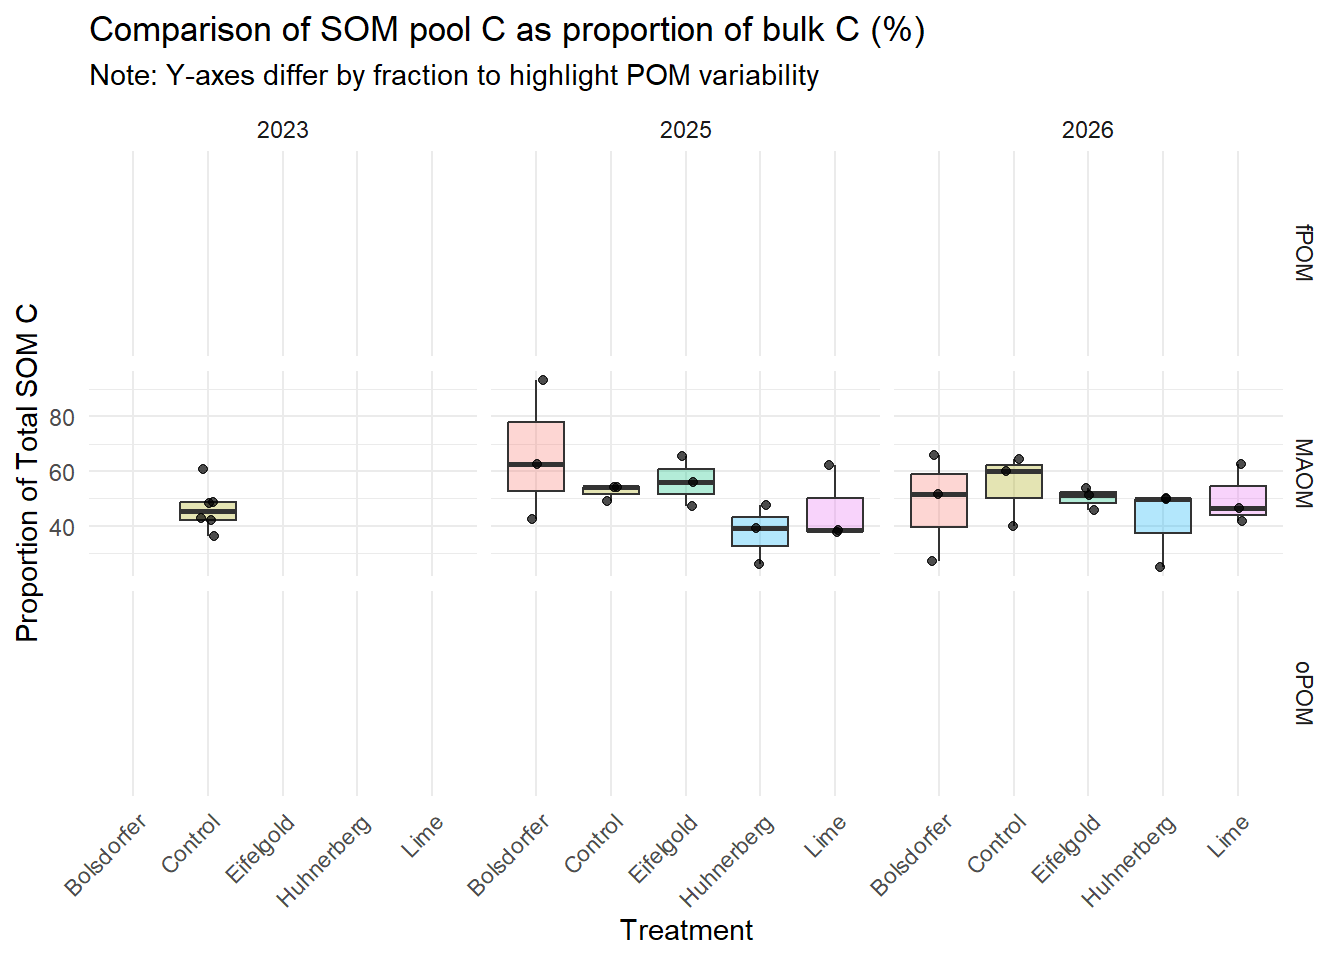
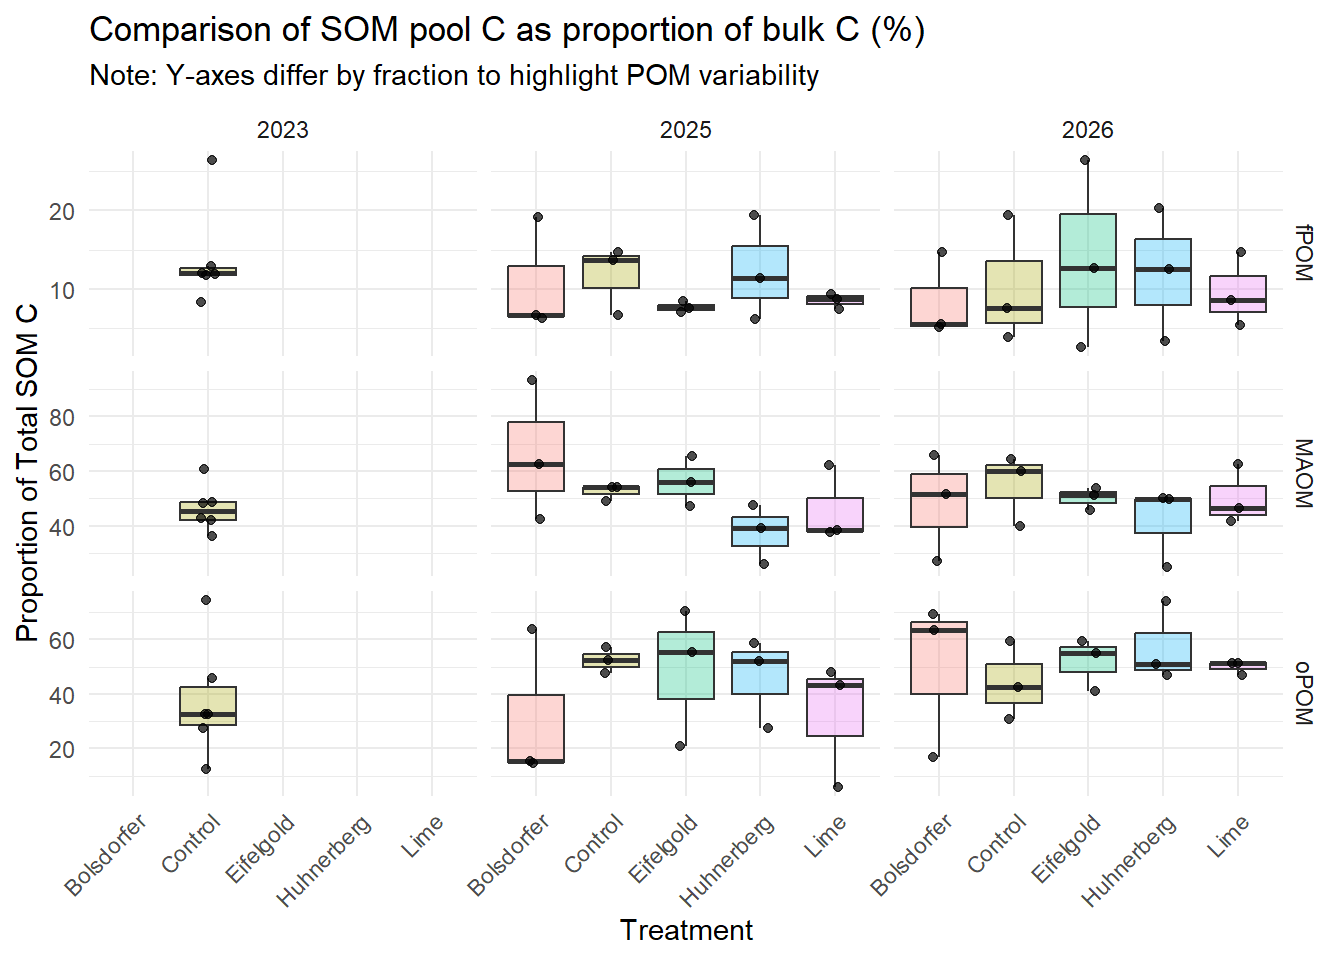
updated density fractionation initial results with CN of oPOM and fPOM in qmd

diff --git a/docs/density_fractionation_initial_results_files/libs/quarto-html/quarto-syntax-highlighting-15634bcf2e68342d4ad2dfa704d543f6.css b/docs/density_fractionation_initial_results_files/libs/quarto-html/quarto-syntax-highlighting-15634bcf2e68342d4ad2dfa704d543f6.css
@@ -1,0 +1,236 @@
+/* quarto syntax highlight colors */
+:root {
+  --quarto-hl-ot-color: #003B4F;
+  --quarto-hl-at-color: #657422;
+  --quarto-hl-ss-color: #20794D;
+  --quarto-hl-an-color: #5E5E5E;
+  --quarto-hl-fu-color: #4758AB;
+  --quarto-hl-st-color: #20794D;
+  --quarto-hl-cf-color: #003B4F;
+  --quarto-hl-op-color: #5E5E5E;
+  --quarto-hl-er-color: #AD0000;
+  --quarto-hl-bn-color: #AD0000;
+  --quarto-hl-al-color: #AD0000;
+  --quarto-hl-va-color: #111111;
+  --quarto-hl-bu-color: inherit;
+  --quarto-hl-ex-color: inherit;
+  --quarto-hl-pp-color: #AD0000;
+  --quarto-hl-in-color: #5E5E5E;
+  --quarto-hl-vs-color: #20794D;
+  --quarto-hl-wa-color: #5E5E5E;
+  --quarto-hl-do-color: #5E5E5E;
+  --quarto-hl-im-color: #00769E;
+  --quarto-hl-ch-color: #20794D;
+  --quarto-hl-dt-color: #AD0000;
+  --quarto-hl-fl-color: #AD0000;
+  --quarto-hl-co-color: #5E5E5E;
+  --quarto-hl-cv-color: #5E5E5E;
+  --quarto-hl-cn-color: #8f5902;
+  --quarto-hl-sc-color: #5E5E5E;
+  --quarto-hl-dv-color: #AD0000;
+  --quarto-hl-kw-color: #003B4F;
+}
+
+/* other quarto variables */
+:root {
+  --quarto-font-monospace: SFMono-Regular, Menlo, Monaco, Consolas, "Liberation Mono", "Courier New", monospace;
+}
+
+/* syntax highlight based on Pandoc's rules */
+pre > code.sourceCode > span {
+  color: #003B4F;
+}
+
+code.sourceCode > span {
+  color: #003B4F;
+}
+
+div.sourceCode,
+div.sourceCode pre.sourceCode {
+  color: #003B4F;
+}
+
+/* Normal */
+code span {
+  color: #003B4F;
+}
+
+/* Alert */
+code span.al {
+  color: #AD0000;
+  font-style: inherit;
+}
+
+/* Annotation */
+code span.an {
+  color: #5E5E5E;
+  font-style: inherit;
+}
+
+/* Attribute */
+code span.at {
+  color: #657422;
+  font-style: inherit;
+}
+
+/* BaseN */
+code span.bn {
+  color: #AD0000;
+  font-style: inherit;
+}
+
+/* BuiltIn */
+code span.bu {
+  font-style: inherit;
+}
+
+/* ControlFlow */
+code span.cf {
+  color: #003B4F;
+  font-weight: bold;
+  font-style: inherit;
+}
+
+/* Char */
+code span.ch {
+  color: #20794D;
+  font-style: inherit;
+}
+
+/* Constant */
+code span.cn {
+  color: #8f5902;
+  font-style: inherit;
+}
+
+/* Comment */
+code span.co {
+  color: #5E5E5E;
+  font-style: inherit;
+}
+
+/* CommentVar */
+code span.cv {
+  color: #5E5E5E;
+  font-style: italic;
+}
+
+/* Documentation */
+code span.do {
+  color: #5E5E5E;
+  font-style: italic;
+}
+
+/* DataType */
+code span.dt {
+  color: #AD0000;
+  font-style: inherit;
+}
+
+/* DecVal */
+code span.dv {
+  color: #AD0000;
+  font-style: inherit;
+}
+
+/* Error */
+code span.er {
+  color: #AD0000;
+  font-style: inherit;
+}
+
+/* Extension */
+code span.ex {
+  font-style: inherit;
+}
+
+/* Float */
+code span.fl {
+  color: #AD0000;
+  font-style: inherit;
+}
+
+/* Function */
+code span.fu {
+  color: #4758AB;
+  font-style: inherit;
+}
+
+/* Import */
+code span.im {
+  color: #00769E;
+  font-style: inherit;
+}
+
+/* Information */
+code span.in {
+  color: #5E5E5E;
+  font-style: inherit;
+}
+
+/* Keyword */
+code span.kw {
+  color: #003B4F;
+  font-weight: bold;
+  font-style: inherit;
+}
+
+/* Operator */
+code span.op {
+  color: #5E5E5E;
+  font-style: inherit;
+}
+
+/* Other */
+code span.ot {
+  color: #003B4F;
+  font-style: inherit;
+}
+
+/* Preprocessor */
+code span.pp {
+  color: #AD0000;
+  font-style: inherit;
+}
+
+/* SpecialChar */
+code span.sc {
+  color: #5E5E5E;
+  font-style: inherit;
+}
+
+/* SpecialString */
+code span.ss {
+  color: #20794D;
+  font-style: inherit;
+}
+
+/* String */
+code span.st {
+  color: #20794D;
+  font-style: inherit;
+}
+
+/* Variable */
+code span.va {
+  color: #111111;
+  font-style: inherit;
+}
+
+/* VerbatimString */
+code span.vs {
+  color: #20794D;
+  font-style: inherit;
+}
+
+/* Warning */
+code span.wa {
+  color: #5E5E5E;
+  font-style: italic;
+}
+
+.prevent-inlining {
+  content: "</";
+}
+
+/*# sourceMappingURL=f23921c56f73e400b49028c9186a1aa0.css.map */

diff --git a/docs/density_fractionation_initial_results.html b/docs/density_fractionation_initial_results.html
@@ -2,12 +2,12 @@
 <html xmlns="http://www.w3.org/1999/xhtml" lang="en" xml:lang="en"><head>
 
 <meta charset="utf-8">
-<meta name="generator" content="quarto-1.9.37">
+<meta name="generator" content="quarto-1.9.38">
 
 <meta name="viewport" content="width=device-width, initial-scale=1.0, user-scalable=yes">
 
 <meta name="author" content="Teneille Nel">
-<meta name="dcterms.date" content="2026-06-15">
+<meta name="dcterms.date" content="2026-08-06">
 
 <title>Density fractionation initial results</title>
 <style>
@@ -35,7 +35,7 @@ ul.task-list li input[type="checkbox"] {
 <script src="density_fractionation_initial_results_files/libs/quarto-html/tippy.umd.min.js"></script>
 <script src="density_fractionation_initial_results_files/libs/quarto-html/anchor.min.js"></script>
 <link href="density_fractionation_initial_results_files/libs/quarto-html/tippy.css" rel="stylesheet">
-<link href="density_fractionation_initial_results_files/libs/quarto-html/quarto-syntax-highlighting-7f8f88aac4f3542376d5c11b86a4c14d.css" rel="stylesheet" id="quarto-text-highlighting-styles">
+<link href="density_fractionation_initial_results_files/libs/quarto-html/quarto-syntax-highlighting-15634bcf2e68342d4ad2dfa704d543f6.css" rel="stylesheet" id="quarto-text-highlighting-styles">
 <script src="density_fractionation_initial_results_files/libs/bootstrap/bootstrap.min.js"></script>
 <link href="density_fractionation_initial_results_files/libs/bootstrap/bootstrap-icons.css" rel="stylesheet">
 <link href="density_fractionation_initial_results_files/libs/bootstrap/bootstrap-efbb37e9afcc02144ebbc7afd12a776f.min.css" rel="stylesheet" append-hash="true" id="quarto-bootstrap" data-mode="light">
@@ -68,7 +68,7 @@ ul.task-list li input[type="checkbox"] {
     <div>
     <div class="quarto-title-meta-heading">Published</div>
     <div class="quarto-title-meta-contents">
-      <p class="date">June 15, 2026</p>
+      <p class="date">August 6, 2026</p>
     </div>
   </div>
   
@@ -136,6 +136,20 @@ ul.task-list li input[type="checkbox"] {
 <div>
 <figure class="figure">
 <p><img src="density_fractionation_initial_results_files/figure-html/Normalized%20to%20control-2.png" class="img-fluid figure-img" width="672"></p>
+</figure>
+</div>
+</div>
+<div class="cell-output-display">
+<div>
+<figure class="figure">
+<p><img src="density_fractionation_initial_results_files/figure-html/Normalized%20to%20control-3.png" class="img-fluid figure-img" width="672"></p>
+</figure>
+</div>
+</div>
+<div class="cell-output-display">
+<div>
+<figure class="figure">
+<p><img src="density_fractionation_initial_results_files/figure-html/Normalized%20to%20control-4.png" class="img-fluid figure-img" width="672"></p>
 </figure>
 </div>
 </div>
